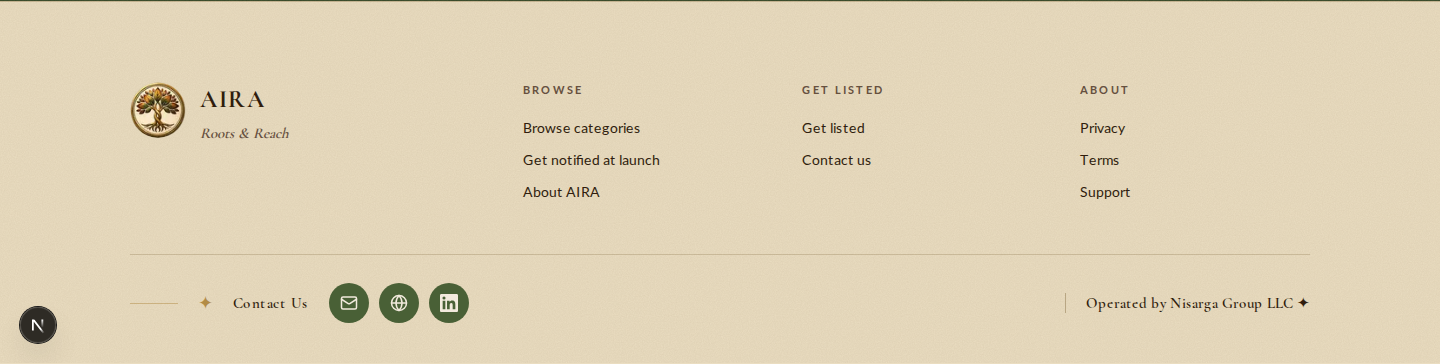
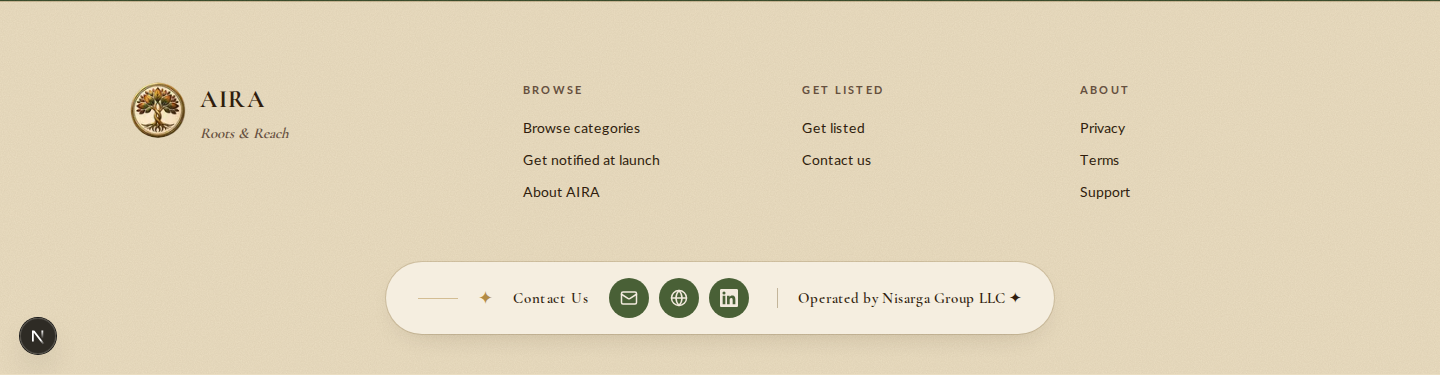
style(marketing): wrap contact strip in centered rounded pill with shadow
Drops justify-between full-width spread; the strip now sits centered in a
rounded-full bg-card pill with a soft drop shadow and 1px border-ring,
matching the reference screenshot. Border-t hairline removed (the pill has
its own surface). Pill wraps to a column on mobile.

diff --git a/apps/web/src/components/marketing/marketing-footer.tsx b/apps/web/src/components/marketing/marketing-footer.tsx
@@ -67,9 +67,10 @@ export function MarketingFooter() {
 
 function ContactStrip() {
   return (
-    <div className="flex flex-col items-center justify-between gap-6 border-t border-border/25 pt-7 text-muted-foreground sm:flex-row">
+    <div className="flex justify-center pt-2">
+      <div className="flex flex-col items-center gap-5 rounded-full bg-card px-8 py-4 text-muted-foreground shadow-[0_10px_30px_-18px_oklch(0.25_0.04_60_/_30%)] ring-1 ring-border/20 sm:flex-row sm:gap-7">
       <div className="flex items-center gap-5">
-        <hr className="hidden h-px w-12 border-0 bg-brand-gold/50 sm:block" />
+        <hr className="hidden h-px w-10 border-0 bg-brand-gold/50 sm:block" />
         <span aria-hidden="true" className="font-display text-lg text-brand-gold">
           ✦
         </span>
@@ -110,6 +111,7 @@ function ContactStrip() {
         <span className="font-display text-[15px] text-foreground">
           Operated by {brand.legalEntity} ✦
         </span>
+      </div>
       </div>
     </div>
   )
